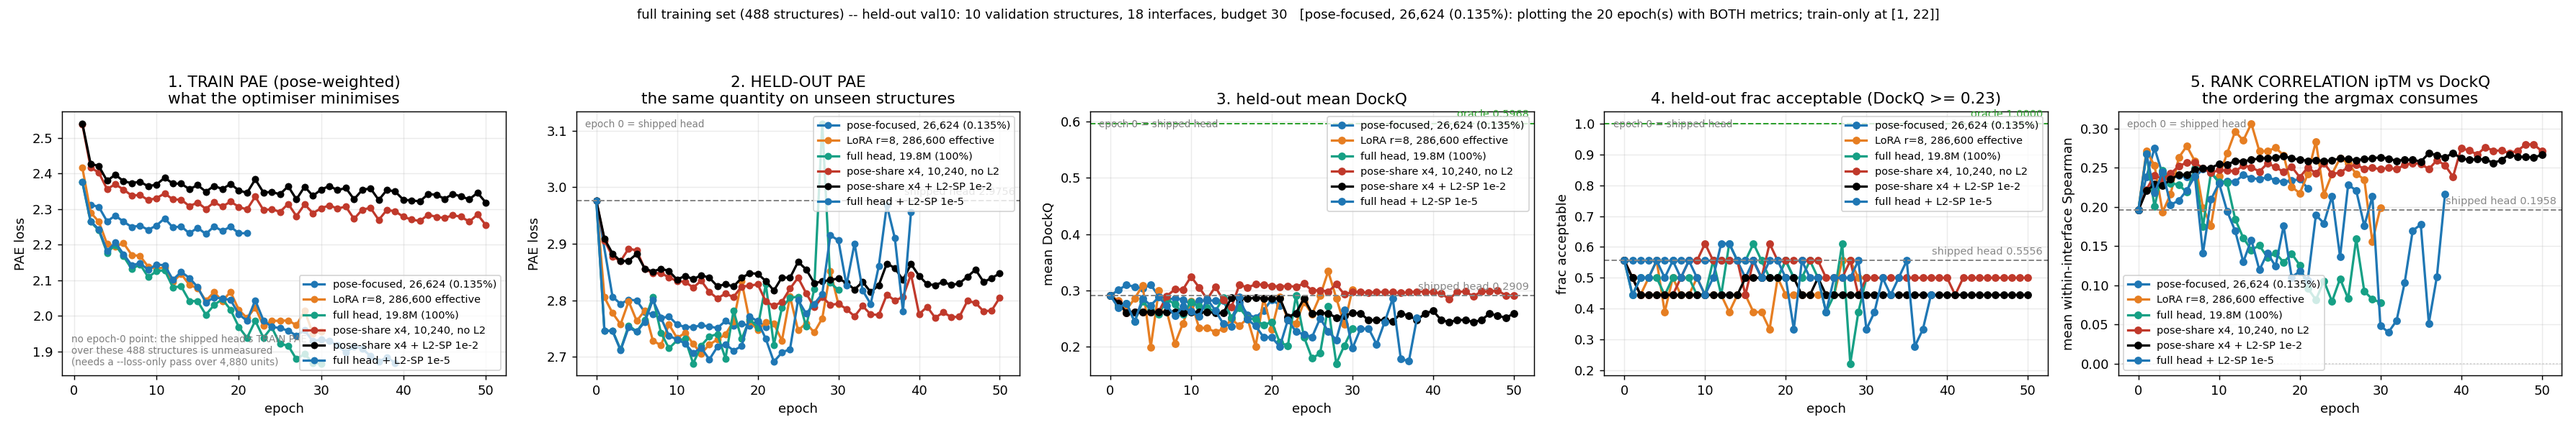
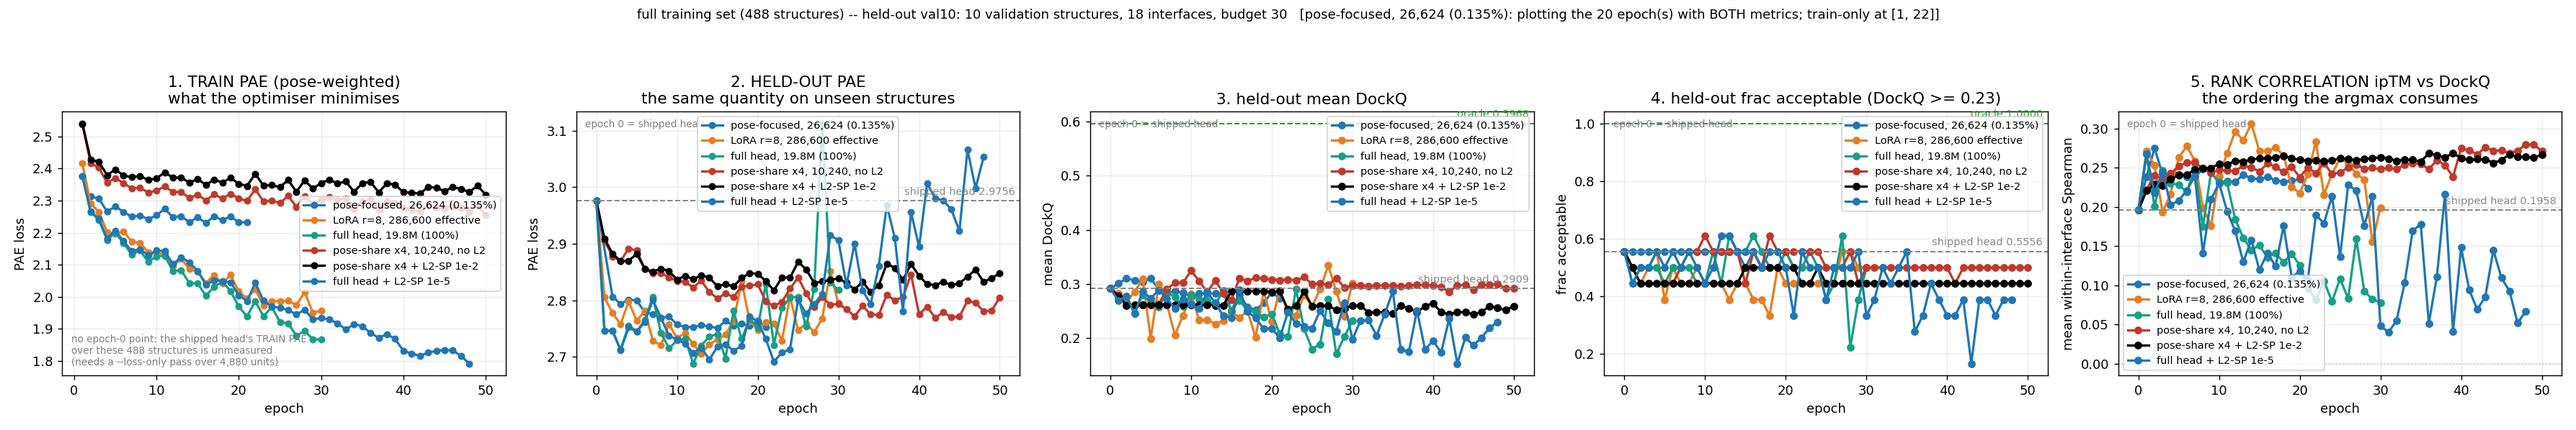
the probe found a fifth bug, then measured a 65x per-pose cancellation
PROBE RUN 1 FAILED, exit 1 at 0.7 min: ValueError: invalid literal for int() with base 10:
'free_500000'. A unit's identifier is the label/trunk basename, not the seed, so int(arm_seed)
raised on the first unit. The coverage guard had just PASSED, because it built its keys from the
manifest where seeds are plain ints -- two independent key constructions, each internally
consistent, disagreeing with each other. Exactly the shape of the reference-vs-model chain bug.
Fixed structurally rather than locally: _rank_key() is the one place a label key is built and both
the guard and the lookup call it, so they cannot diverge again.

PROBE RUN 2 PASSED, exit 0 at 1.0 min, 3 ranks:
  all 2 trainable tensors received a finite non-zero ranking gradient THROUGH
    calculate_chain_based_ptm -- the one thing no offline test could establish
  ranking label coverage: all 770 (pdb, seed, interface) groups hold 5 finite DockQ values
  one optimiser step completed, and no head_*.pt was left behind

THE MEASUREMENT, summed over 3 ranks as _apply_step sums:
  |g_PAE|            4.4129e-01
  |g_rank| at alpha 1  8.6107e-03   ratio 0.0195
  cos(PAE, rank)     -0.1501        they mildly OPPOSE
  |g_PAE + g_rank|   4.4007e-01     clip 25, not close
  parity alpha       51.25

AND THE ACCUMULATED MEASUREMENT WAS NECESSARY, not pedantry. The per-pose ratio mean is 1.2873;
the accumulated ratio is 0.0195. Per-pose contributions cancel by ~65x, which is what the
[…]

diff --git a/extra_training/phases/phase_k_train.py b/extra_training/phases/phase_k_train.py
@@ -1064,6 +1064,21 @@ def main():
         # raised NameError at startup the first time --rank-loss was passed. Found in review of
         # a3086ef. See _rank_check_coverage below.
 
+    def _rank_key(pdb, arm_seed_or_int, pair):
+        """THE label key, built in exactly one place.
+
+        A unit's identifier is the label/trunk basename -- "free_500000", not 500000 -- because
+        that is what names the files. The guard built its keys from the manifest, where seeds are
+        plain ints, while the lookup in run_unit did int(arm_seed) on the basename and raised
+        ValueError on the first unit. Both sides were internally consistent and disagreed with
+        each other, which is the same shape as the reference-vs-model chain bug: two independent
+        key constructions. There is now one, so they cannot diverge again.
+        """
+        sd = arm_seed_or_int
+        if isinstance(sd, str):
+            sd = sd.rsplit("_", 1)[-1]
+        return (pdb, int(sd), pair)
+
     def _rank_check_coverage(want_units):
         """Every (pdb, seed, interface) this run will train must carry --nsample finite DockQ.
 
@@ -1077,7 +1092,7 @@ def main():
         """
         if not a.rank_loss:
             return
-        expected = {(pdb, sd, pr) for pdb, sd in want_units
+        expected = {_rank_key(pdb, sd, pr) for pdb, sd in want_units
                     for pr in (_scored_asym.get(pdb) or ())}
         if not expected:
             raise SystemExit("STOP: --rank-loss expected zero (pdb, seed, interface) groups. "
@@ -2635,7 +2650,7 @@ def main():
         if a.rank_loss and not a.loss_only:
             import rank_loss as RKL
             _rk_pairs = sorted(_scored_asym.get(pdb) or ())
-            _rk_lab = [(_p, _rank_lab.get((pdb, int(arm_seed), _p))) for _p in _rk_pairs]
+            _rk_lab = [(_p, _rank_lab.get(_rank_key(pdb, arm_seed, _p))) for _p in _rk_pairs]
             _rk_lab = [(_p, _d) for _p, _d in _rk_lab if _d]
             # AVERAGED OVER THE UNIT'S INTERFACES, so a 3-interface structure does not get three
             # times the weight of a 1-interface one.

diff --git a/extra_training/docs/fullhead_l2sp_overfit30_results.md b/extra_training/docs/fullhead_l2sp_overfit30_results.md
@@ -1,6 +1,6 @@
 # Full training set: the four metrics, per epoch
 
-Generated 2026-10-22 10:09 PDT by `run_logging/results_table.py` from `wpg274`, at **budget 30**. Regenerated automatically when an epoch's fourth metric lands. Do not edit.
+Generated 2026-10-22 11:24 PDT by `run_logging/results_table.py` from `wpg274`, at **budget 30**. Regenerated automatically when an epoch's fourth metric lands. Do not edit.
 
 ## The lineage is one experiment in three parts
 
@@ -65,7 +65,16 @@ Budget 30, 18 interfaces, 10 validation structures. **Not** the budget-100 figur
 | 36 | `wpg274` | yes | 1.8875 | 2.9682 | -0.0074 | 0.1779 | -0.1130 | 0.2778 | -0.2778 |
 | 37 | `wpg274` | yes | 1.8720 | 2.9095 | -0.0661 | 0.1742 | -0.1167 | 0.3333 | -0.2223 |
 | 38 | `wpg274` | yes | 1.8838 | 2.7805 | -0.1951 | 0.2509 | -0.0400 | 0.4444 | -0.1112 |
-| 39 | `wpg274` | **NO** | 1.8685 | 2.9558 | -0.0198 | — | — | — | — |
+| 39 | `wpg274` | yes | 1.8685 | 2.9558 | -0.0198 | 0.1782 | -0.1127 | 0.3889 | -0.1667 |
+| 40 | `wpg274` | yes | 1.8314 | 2.8944 | -0.0812 | 0.1944 | -0.0965 | 0.3333 | -0.2223 |
+| 41 | `wpg274` | yes | 1.8233 | 3.0066 | +0.0310 | 0.1727 | -0.1182 | 0.3333 | -0.2223 |
+| 42 | `wpg274` | yes | 1.8155 | 2.9803 | +0.0047 | 0.2357 | -0.0552 | 0.3889 | -0.1667 |
+| 43 | `wpg274` | yes | 1.8258 | 2.9763 | +0.0007 | 0.1523 | -0.1386 | 0.1667 | -0.3889 |
+| 44 | `wpg274` | yes | 1.8315 | 2.9606 | -0.0151 | 0.2004 | -0.0905 | 0.3889 | -0.1667 |
+| 45 | `wpg274` | yes | 1.8339 | 2.9224 | -0.0532 | 0.1861 | -0.1048 | 0.3889 | -0.1667 |
+| 46 | `wpg274` | yes | 1.8328 | 3.0661 | +0.0905 | 0.2001 | -0.0908 | 0.3333 | -0.2223 |
+| 47 | `wpg274` | yes | 1.8156 | 2.9980 | +0.0224 | 0.2183 | -0.0726 | 0.3889 | -0.1667 |
+| 48 | `wpg274` | yes | 1.7919 | 3.0533 | +0.0777 | 0.2294 | -0.0615 | 0.3889 | -0.1667 |
 
 Held-out PAE is a loss, so **lower is better** and a negative delta is an improvement. DockQ and frac-acceptable are the opposite.
 
@@ -120,6 +129,16 @@ On the 30-structure arm, training PAE fell 38% from epoch 1 to 142 while held-ou
 | 37 | `wpg274` | 1 | 1.8 | 1.7m | 0.0m | 44.89 | 45.42 | None |
 | 38 | `wpg274` | 2 | 1.8 | 1.8m | 0.0m | 44.89 | 45.42 | None |
 | 39 | `wpg274` | 2 | 1.8 | 1.8m | 0.0m | 44.89 | 45.42 | None |
+| 40 | `wpg274` | 1 | 1.8 | 1.7m | 0.0m | 44.89 | 45.42 | None |
+| 41 | `wpg274` | 1 | 1.8 | 1.7m | 0.0m | 44.89 | 45.42 | None |
+| 42 | `wpg274` | 1 | 1.8 | 1.8m | 0.0m | 44.89 | 45.42 | None |
+| 43 | `wpg274` | 1 | 1.8 | 1.7m | 0.0m | 44.89 | 45.42 | None |
+| 44 | `wpg274` | 1 | 1.8 | 1.7m | 0.0m | 44.89 | 45.42 | None |
+| 45 | `wpg274` | 1 | 1.7 | 1.7m | 0.0m | 44.89 | 45.42 | None |
+| 46 | `wpg274` | 1 | 1.8 | 1.7m | 0.0m | 44.89 | 45.42 | None |
+| 47 | `wpg274` | 1 | 1.7 | 1.7m | 0.0m | 44.89 | 45.42 | None |
+| 48 | `wpg274` | 1 | 1.8 | 1.7m | 0.0m | 44.89 | 45.42 | None |
+| 49 | `?` | 1 | 1.8 | 1.8m | 0.0m | 44.89 | 45.42 | None |
 
 **Wall, accounted and residual all come from the SAME rank** — the one with the longest wall clock — so accounted + residual equals wall. Taking each column's maximum independently produced a row that did not add up under a heading that said 'worst rank'. Memory stays an across-rank maximum on purpose: there the question is whether ANY rank came near the card.
 
@@ -127,19 +146,19 @@ On the 30-structure arm, training PAE fell 38% from epoch 1 to 142 while held-ou
 
 ### Bucket detail, per rank
 
-**epoch 37** (`wpg274`)
-
-- rank 0: apply_step_total 0.1m/15  crop_slice 0.2m/90  cropped_tokens mean 407  gpu_backward 1.2m/450  gpu_forward 0.5m/450  grad_collective_plus_wait 0.0m/15  label_open 0.0m/90  loss_feature_prep 0.0m/90  loss_stats_collective_plus_wait 0.0m/15  pose_total 1.5m/450  prefetch_issue 0.0m/89
-- rank 1: apply_step_total 0.1m/15  crop_slice 0.2m/90  cropped_tokens mean 407  gpu_backward 1.2m/450  gpu_forward 0.5m/450  grad_collective_plus_wait 0.0m/15  label_open 0.0m/90  loss_feature_prep 0.0m/90  loss_stats_collective_plus_wait 0.0m/15  pose_total 1.5m/450  prefetch_issue 0.0m/89
-- rank 2: apply_step_total 0.1m/15  crop_slice 0.2m/90  cropped_tokens mean 407  gpu_backward 1.2m/450  gpu_forward 0.5m/450  grad_collective_plus_wait 0.0m/15  label_open 0.0m/90  loss_feature_prep 0.0m/90  loss_stats_collective_plus_wait 0.0m/15  pose_total 1.5m/450  prefetch_issue 0.0m/89
-
-**epoch 38** (`wpg274`)
+**epoch 47** (`wpg274`)
 
 - rank 0: apply_step_total 0.0m/15  crop_slice 0.2m/90  cropped_tokens mean 407  gpu_backward 1.2m/450  gpu_forward 0.5m/450  grad_collective_plus_wait 0.0m/15  label_open 0.0m/90  loss_feature_prep 0.0m/90  loss_stats_collective_plus_wait 0.0m/15  pose_total 1.5m/450  prefetch_issue 0.0m/89
 - rank 1: apply_step_total 0.0m/15  crop_slice 0.2m/90  cropped_tokens mean 407  gpu_backward 1.2m/450  gpu_forward 0.5m/450  grad_collective_plus_wait 0.0m/15  label_open 0.0m/90  loss_feature_prep 0.0m/90  loss_stats_collective_plus_wait 0.0m/15  pose_total 1.5m/450  prefetch_issue 0.0m/89
 - rank 2: apply_step_total 0.0m/15  crop_slice 0.2m/90  cropped_tokens mean 407  gpu_backward 1.2m/450  gpu_forward 0.5m/450  grad_collective_plus_wait 0.0m/15  label_open 0.0m/90  loss_feature_prep 0.0m/90  loss_stats_collective_plus_wait 0.0m/15  pose_total 1.5m/450  prefetch_issue 0.0m/89
 
-**epoch 39** (`wpg274`)
+**epoch 48** (`wpg274`)
+
+- rank 0: apply_step_total 0.1m/15  crop_slice 0.2m/90  cropped_tokens mean 407  gpu_backward 1.2m/450  gpu_forward 0.5m/450  grad_collective_plus_wait 0.0m/15  label_open 0.0m/90  loss_feature_prep 0.0m/90  loss_stats_collective_plus_wait 0.0m/15  pose_total 1.5m/450  prefetch_issue 0.0m/89
+- rank 1: apply_step_total 0.1m/15  crop_slice 0.2m/90  cropped_tokens mean 407  gpu_backward 1.2m/450  gpu_forward 0.5m/450  grad_collective_plus_wait 0.0m/15  label_open 0.0m/90  loss_feature_prep 0.0m/90  loss_stats_collective_plus_wait 0.0m/15  pose_total 1.5m/450  prefetch_issue 0.0m/89
+- rank 2: apply_step_total 0.1m/15  crop_slice 0.2m/90  cropped_tokens mean 407  gpu_backward 1.2m/450  gpu_forward 0.5m/450  grad_collective_plus_wait 0.0m/15  label_open 0.0m/90  loss_feature_prep 0.0m/90  loss_stats_collective_plus_wait 0.0m/15  pose_total 1.5m/450  prefetch_issue 0.0m/89
+
+**epoch 49** (`?`)
 
 - rank 0: apply_step_total 0.1m/15  crop_slice 0.2m/90  cropped_tokens mean 407  gpu_backward 1.2m/450  gpu_forward 0.5m/450  grad_collective_plus_wait 0.0m/15  label_open 0.0m/90  loss_feature_prep 0.0m/90  loss_stats_collective_plus_wait 0.0m/15  pose_total 1.5m/450  prefetch_issue 0.0m/89
 - rank 1: apply_step_total 0.1m/15  crop_slice 0.2m/90  cropped_tokens mean 407  gpu_backward 1.2m/450  gpu_forward 0.5m/450  grad_collective_plus_wait 0.0m/15  label_open 0.0m/90  loss_feature_prep 0.0m/90  loss_stats_collective_plus_wait 0.0m/15  pose_total 1.5m/450  prefetch_issue 0.0m/89
